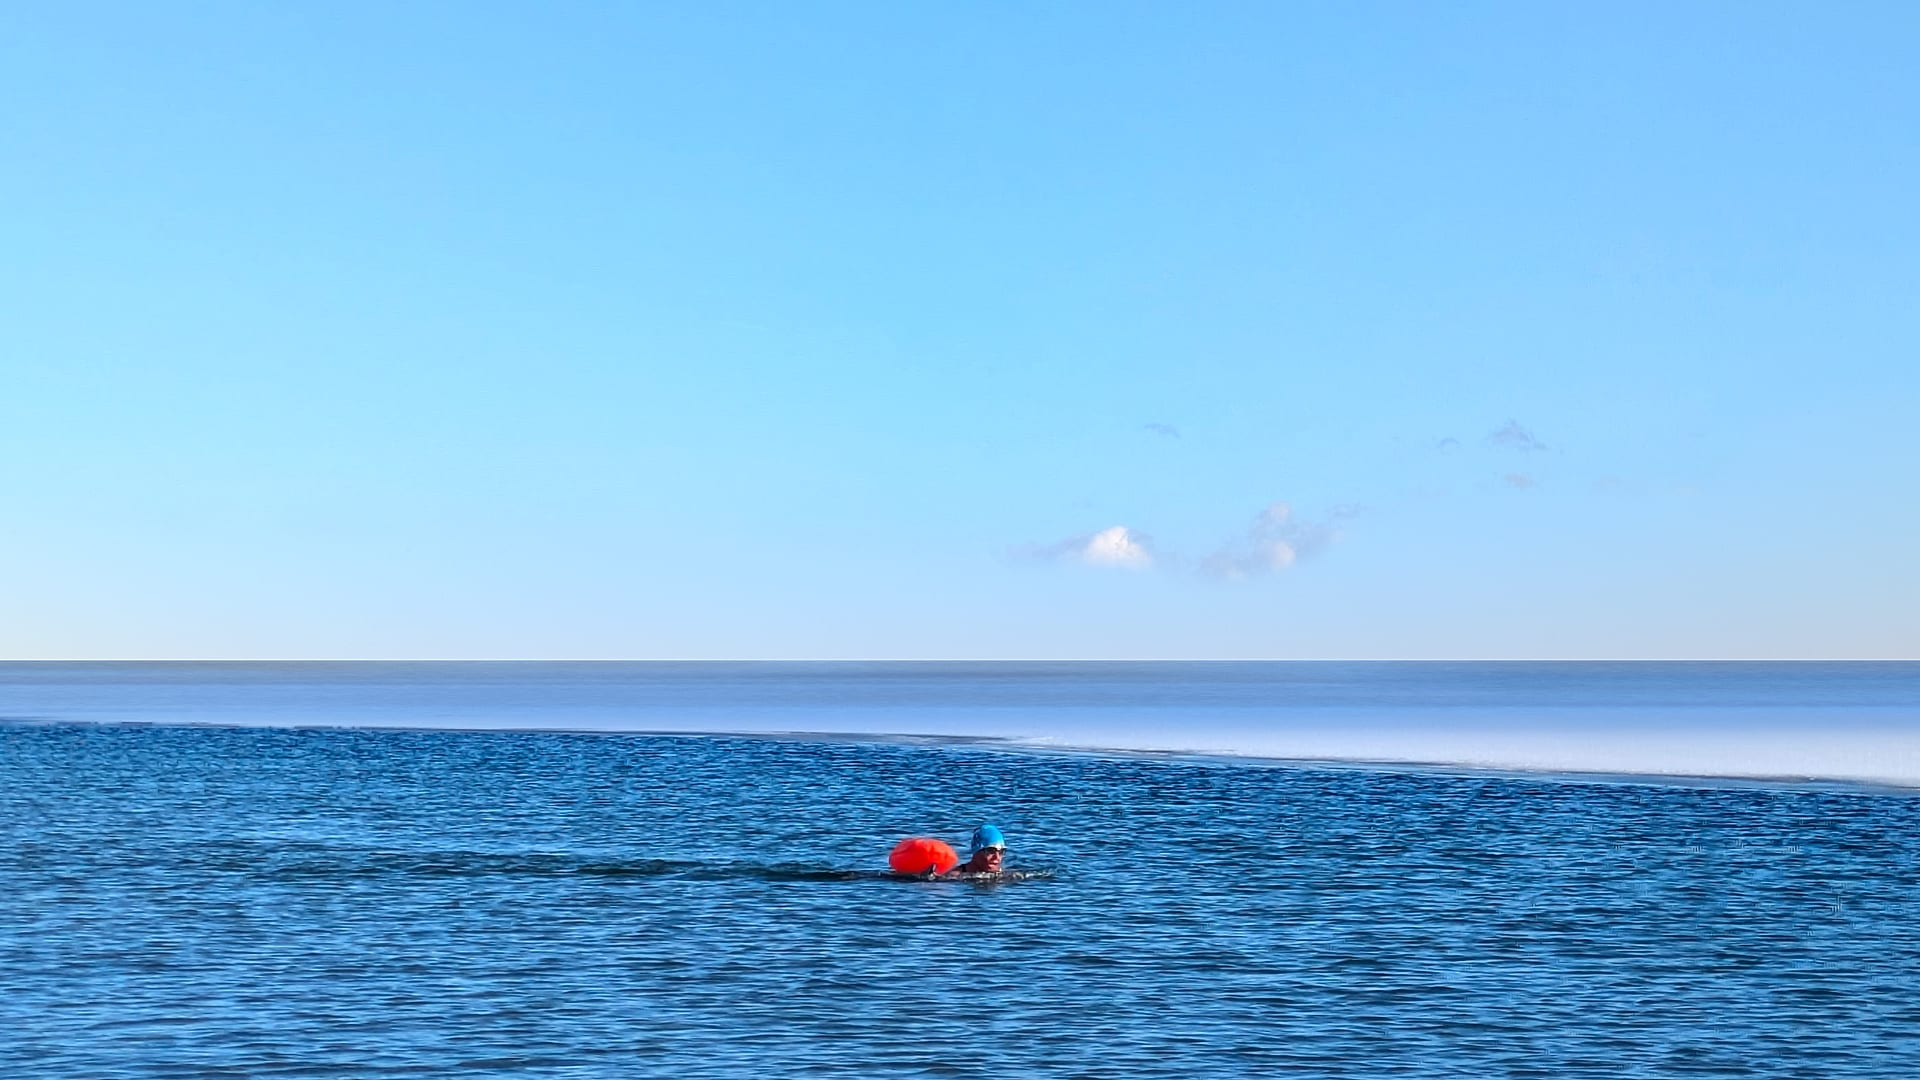
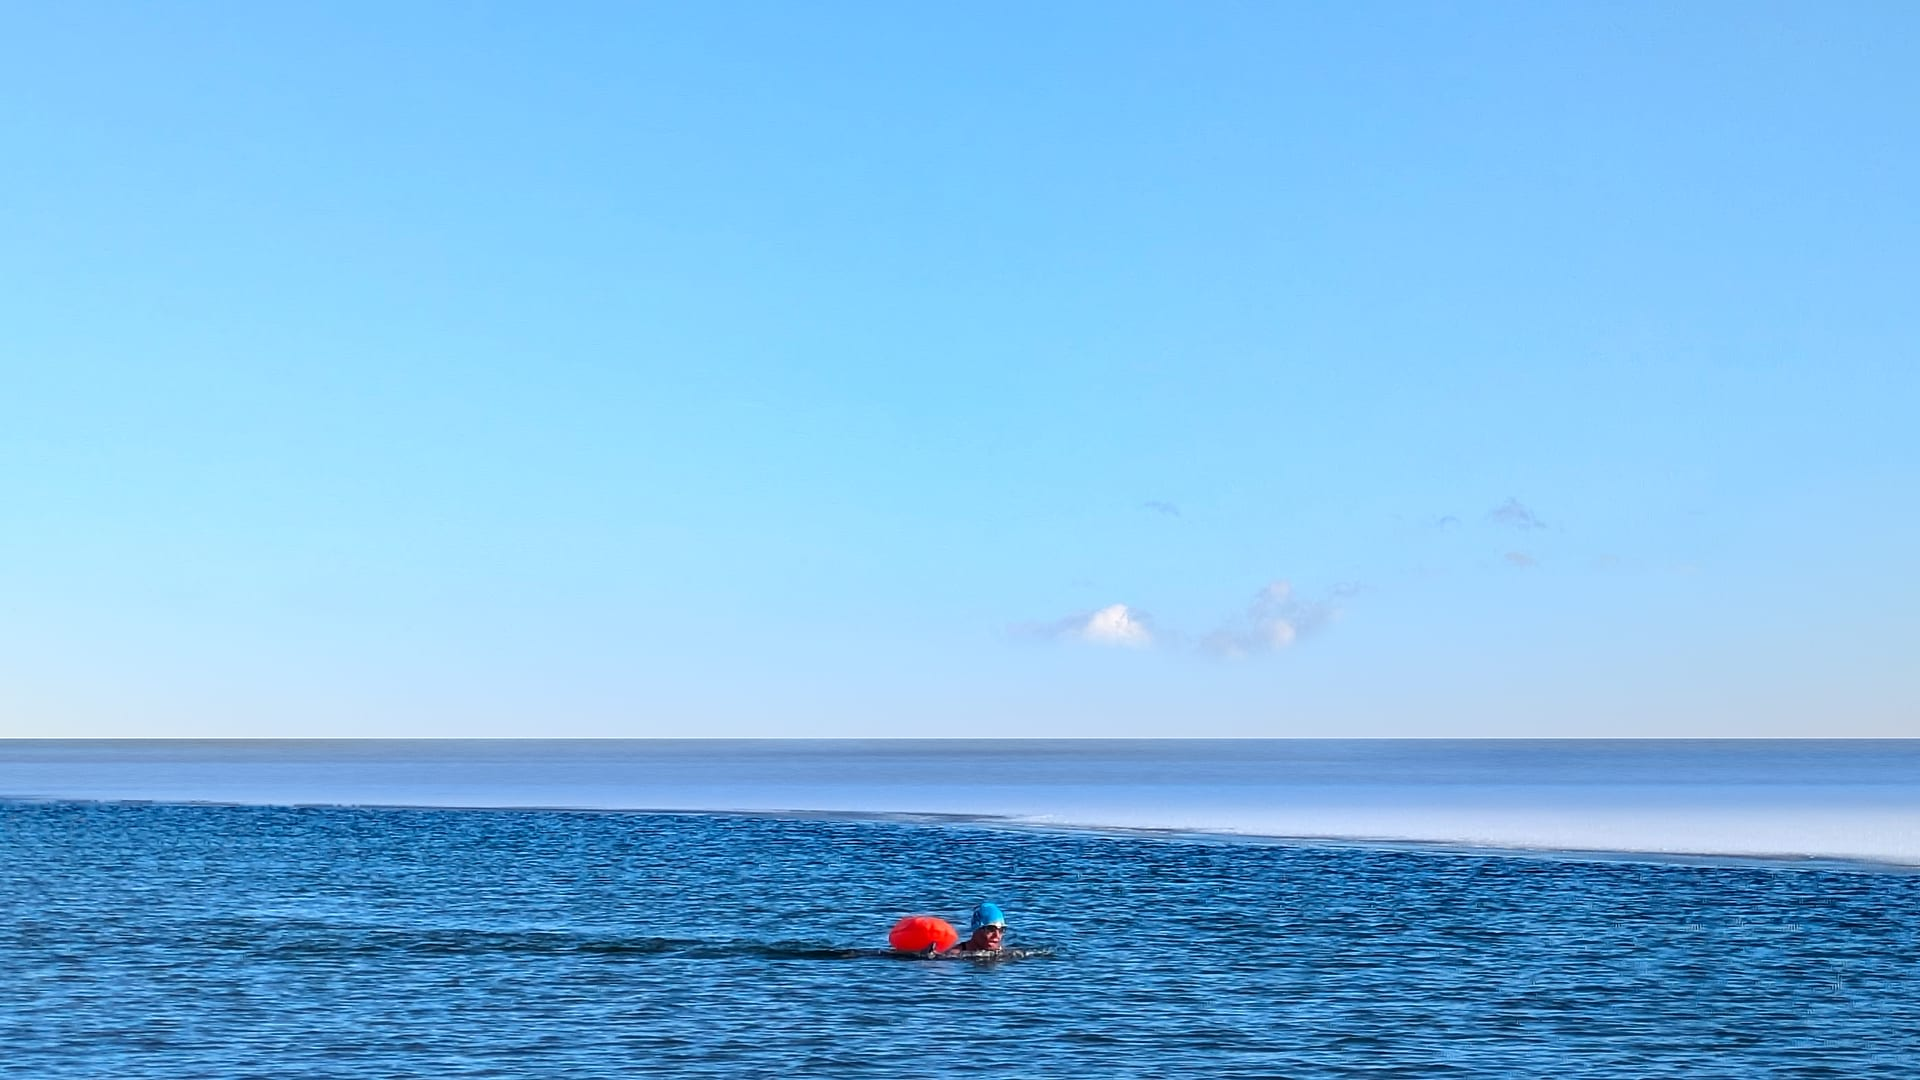
Lighter ice-blue palette; move the Eisbaden swimmer clear of the links
Eisbaden palette: header text lifted to #e5f9ff, accent #aadaff from the
logo's waves, and CTAs become ice-blue (#bdf2ff) buttons with a navy
label (7.1:1). Button colours move into --cta-fill/--cta-text/--cta-ring
so each palette defines its own. Link text stays #0068c2 (>= 4.5:1).

Hero: the crop starts 114 px higher in the (untouched) sky, putting the
swimmer at ~86 % of the height, between the links (up to 82 % on a
1280x720 laptop) and the scroll cue. Anchoring the image at the bottom
keeps her above the cue on viewports wider than 16:9.

Claude-Session: https://claude.ai/code/session_015nfBkrRc5pJgWmHyuyqbfZ

diff --git a/src/css/tokens.scss b/src/css/tokens.scss
@@ -6,19 +6,26 @@
 // the JS has applied a class still gets a complete palette.
 //
 // Both palettes come from the logo's gradients (as the print documents in
-// aqualign-docs use them). --dark-2-color carries text and the CTA fill on
-// white, so it stays at >= 4.5:1 there and against --main-color; --medium-color
-// is also the hover text of the menu on near-black, so it stays >= 4.5:1 there.
+// aqualign-docs use them). --dark-2-color is link text on white, so it stays at
+// >= 4.5:1 there; --medium-color is also the hover text of the menu on
+// near-black, so it stays >= 4.5:1 there. The --cta-* trio is the button: its
+// label stays >= 4.5:1 on its fill, and the focus ring >= 3:1 on white.
 
-// Eisbaden: ice blue. The ice-blue sun, the cyan of the waves, and #0068c2 of
-// "SWIM & ICE" — the lightest logo blue that still reads on white (5.6:1).
+// Eisbaden: light ice blue. The header text is the logo's ice-blue sun lifted
+// towards white, the accent the pale blue of the waves; buttons are the sun's
+// ice blue with the navy of the icon's disc as label (7.1:1). Only link text
+// keeps a mid blue, #0068c2 of "SWIM & ICE": any lighter blue falls under
+// 4.5:1 on white.
 body.cold {
-  --main-color: #bdf2ff;
+  --main-color: #e5f9ff;
   --dark-2-color: #0068c2;
-  --dark-1-color: #0088e0;
-  --medium-color: #00bdfe;
-  --bright-1-color: #00daff;
-  --bright-2-color: #00e4ff;
+  --dark-1-color: #00499b;
+  --medium-color: #aadaff;
+  --bright-1-color: #bdf2ff;
+  --bright-2-color: #b6ecff;
+  --cta-fill: var(--bright-1-color);
+  --cta-text: var(--dark-1-color);
+  --cta-ring: var(--dark-2-color);
 }
 
 // Schwimmtraining: deep blue. The navy of the icon's disc for links and buttons
@@ -32,4 +39,7 @@ body.warm {
   --medium-color: #0088e0;
   --bright-1-color: #0080d8;
   --bright-2-color: #008fe5;
+  --cta-fill: var(--dark-2-color);
+  --cta-text: var(--main-color);
+  --cta-ring: var(--medium-color);
 }

diff --git a/src/css/content.scss b/src/css/content.scss
@@ -44,22 +44,21 @@ main {
     display: inline-block;
     padding: 0.7em 1.4em;
     border-radius: 0.4em;
-    background: var(--dark-2-color);
-    color: var(--main-color);
+    background: var(--cta-fill);
+    color: var(--cta-text);
     text-decoration: none;
 
     // Hover/focus changes only the ring, never the fill: swapping the background
-    // to a lighter palette colour dropped the text contrast below the WCAG
+    // to another palette colour dropped the text contrast below the WCAG
     // minimum in one mode or the other.
     //
     // The colour must be restated here. The generic `main a:hover` rule above is
     // more specific than `.cta a`, so without this the label repaints in
-    // --dark-2-color on hover — which is the button's own background, leaving
-    // blue text on a blue button.
+    // --dark-2-color on hover, which can be the button's own fill.
     &:hover,
     &:focus-visible {
-      box-shadow: 0 0 0 3px var(--medium-color);
-      color: var(--main-color);
+      box-shadow: 0 0 0 3px var(--cta-ring);
+      color: var(--cta-text);
     }
   }
 }

diff --git a/src/css/header.scss b/src/css/header.scss
@@ -76,6 +76,11 @@ header {
       url('/public/hero-eisbaden.webp') type('image/webp') 1x,
       url('/public/hero-eisbaden.jpg') type('image/jpeg') 1x
     );
+    // The swimmer sits low in the photo, below the switch and the links. A
+    // viewport wider than 16:9 trims the photo top and bottom, which would push
+    // her under the scroll cue; anchoring the bottom edge trims only sky instead.
+    // (At 16:9 and narrower there is no vertical slack, so this changes nothing.)
+    background-position: center bottom;
   }
 
   &::after {
